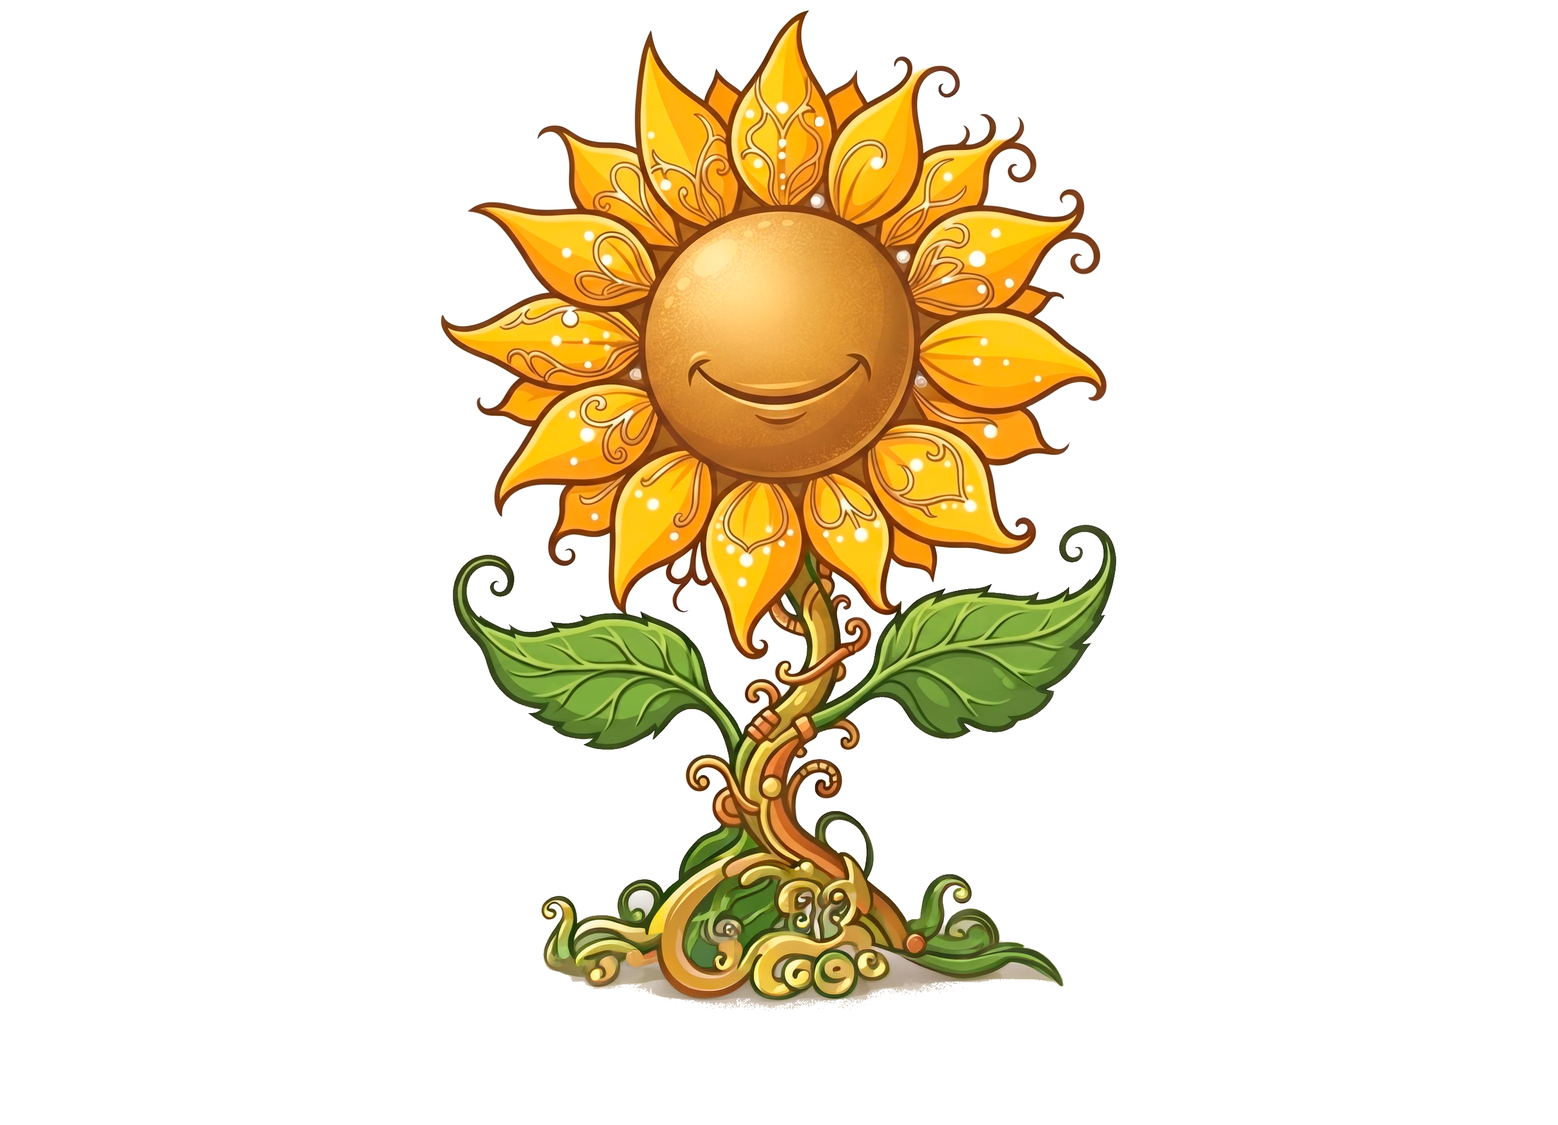
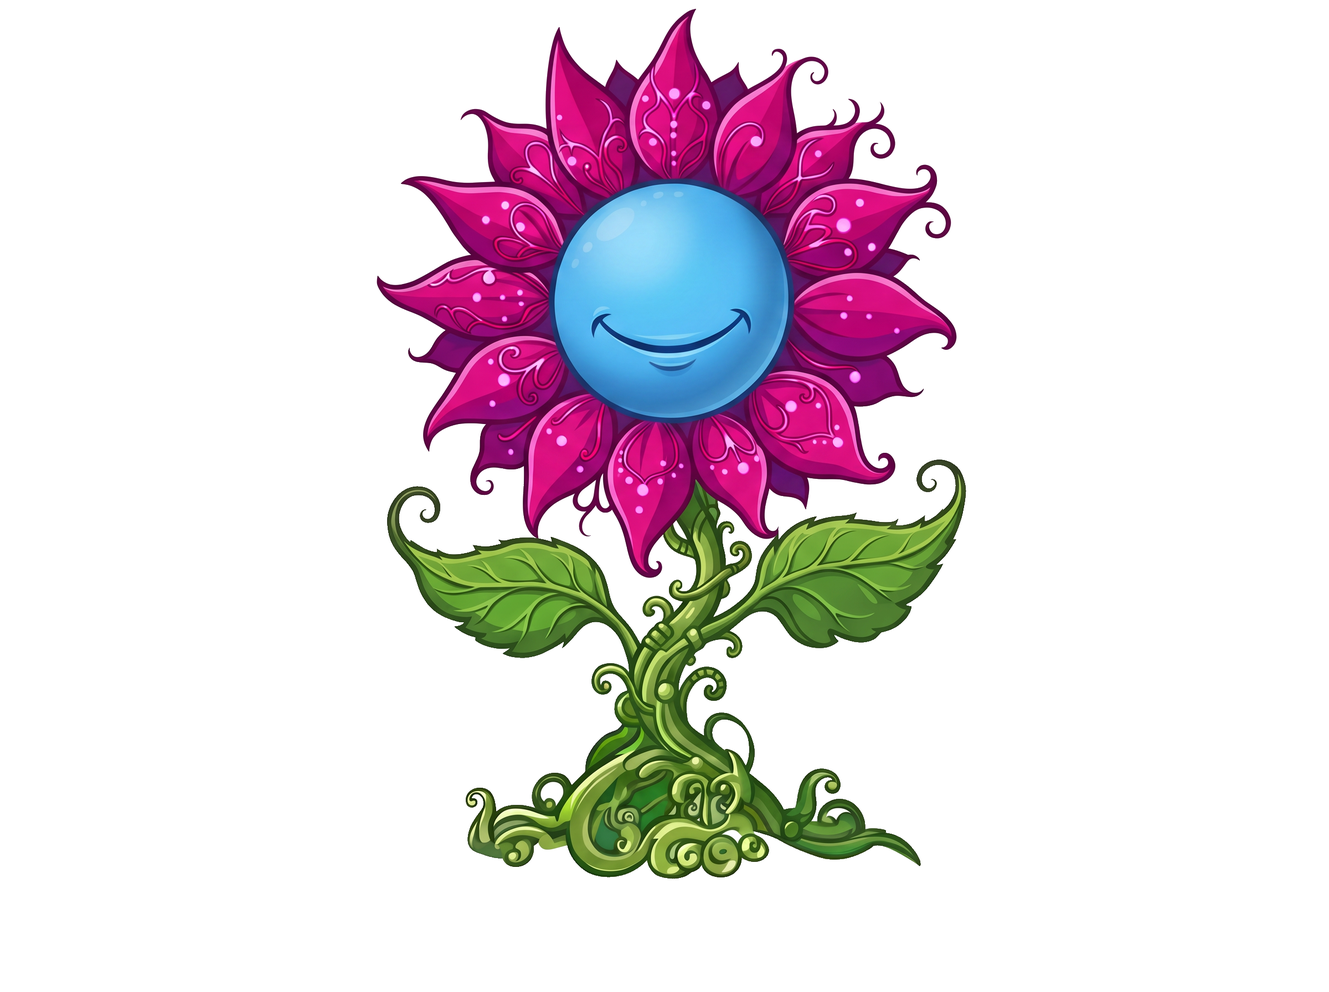
Rialla rosa i blava, mes petita; icona; l'herba desapareix del terra en collir-la; textos del Pi

Changed region(s): [[0.2812, 0.0, 0.75, 0.9062]]

diff --git a/js/dialegs.js b/js/dialegs.js
@@ -12,7 +12,7 @@ const SIGNES_MISSATGE = ["☉", "☽", "✦", "♆", "⚶", "☿", "♄", "♃",
 // (a les partides velles, la farigola que s'hi portava abans compta com la pruna)
 function ofrenesFont(E) { return ['herba1', 'herba2'].filter(h => E.flag(h)).length + (E.te('pruna') || E.flag('herba3') ? 1 : 0); }
 function objectiuFont(n) {
-    return n === 3 ? 'Ja ho tens tot: torna a la Font del Bisbe.' : `Porta a la Font del Bisbe l'herba de Sant Joan (al bosc), la rialla (una planta: al Bosc del Pi dels Tres Cants, al sud de Sant Antoni, guardada per bolets verinosos) i una pruna de la Prunera de l'Hostatgeria (${n}/3).`;
+    return n === 3 ? 'Ja ho tens tot: torna a la Font del Bisbe.' : `Porta a la Font del Bisbe l'herba de Sant Joan (al bosc), la rialla (una planta: al Bosc del Pi dels Tres Cants, guardada per bolets verinosos) i una pruna de la Prunera de l'Hostatgeria (${n}/3).`;
 }
 
 // Pistes: totes surten de la taula de passos de js/progres.js
@@ -773,8 +773,8 @@ const DIALEGS = {
         return {
             pagines: [
                 { qui: 'Ineu', text: 'Les Venerables Sàvies diuen que la nit de Sant Joan aquesta aigua guaria. Ara està morta... Hi ha unes lletres gravades a la pica: «Herba de Sant Joan, rialla i el fruit de l\'arbre d\'or.»' },
-                { qui: 'Ineu', text: 'Rialla... Això no és cap rialla de riure: és una PLANTA! Les Venerables Sàvies en parlaven: «l\'herba del riure», una flor groga, de pètals tot al voltant, amb una boca somrient al mig, com si es rigués. Només creix on la boira no l\'ha pogut marcir, i diuen que al Bosc del Pi dels Tres Cants, al sud de Sant Antoni, en una clariana a la vora del camí... però que no la deixen collir fàcilment: la guarden uns bolets verinosos.' },
-                { qui: 'Ineu', text: 'L\'herba de Sant Joan fa llum, sempre en una clariana: la trobaré aquí al bosc, al nord (cap al Til·ler). I l\'arbre d\'or... és la Prunera Màgica, al jardí de l\'Hostatgeria! Una pruna.' },
+                { qui: 'Ineu', text: 'Rialla... Això no és cap rialla de riure: és una PLANTA! Les Venerables Sàvies parlaven d\'una flor que creix envoltada de bolets verinosos, al Bosc del Pi dels Tres Cants.' },
+                { qui: 'Ineu', text: 'L\'herba de Sant Joan fa llum, sempre en una clariana: en deu haver-n\'hi per aquí, en aquest mateix bosc. I l\'arbre d\'or... és la Prunera Màgica, al jardí de l\'Hostatgeria! Una pruna.' },
                 { avis: `Ofrenes trobades: ${herbes}/3.` }
             ],
             enAcabar: () => { E.posaFlag('fontVista'); E.posaObjectiu(objectiuFont(herbes)); }
@@ -782,7 +782,10 @@ const DIALEGS = {
     },
 
     herba: (n, nom, icona) => E => ({
-        pagines: [{ avis: `Has trobat ${nom}!`, obj: icona }],               // l'Ineu alça l'ofrena amb la fanfarra i la imatge de l'objecte
+        pagines: [
+            { fer: (z, fet) => { if (z.herbaAgafada) z.herbaAgafada(n); fet(); } },        // el dibuix de l'herba desapareix del terra: la icona que s'alça en passa a ser l'única
+            { avis: `Has trobat ${nom}!`, obj: icona }
+        ],               // l'Ineu alça l'ofrena amb la fanfarra i la imatge de l'objecte
         enAcabar: () => {
             E.posaFlag('herba' + n);
             if (E.flag('fontVista')) E.posaObjectiu(objectiuFont(ofrenesFont(E)));

diff --git a/index.html b/index.html
@@ -63,9 +63,9 @@
     <!-- L'ordre importa: cada fitxer fa servir coses dels anteriors -->
     <script src="js/sfx.js?v=2611110744"></script>
     <script src="js/partida.js?v=2611110744"></script>
-    <script src="js/progres.js?v=2611114300"></script>
-    <script src="js/dibuixos.js?v=2611114400"></script>
-    <script src="js/icones.js?v=2611114600"></script>
+    <script src="js/progres.js?v=2611114900"></script>
+    <script src="js/dibuixos.js?v=2611115000"></script>
+    <script src="js/icones.js?v=2611115000"></script>
     <script src="js/dibuixos_biblio.js?v=2611110744"></script>
     <script src="js/dibuixos_cela.js?v=2611110744"></script>
     <script src="js/dibuixos_taller.js?v=2611110744"></script>
@@ -75,8 +75,8 @@
     <script src="js/dibuixos_casa.js?v=2611110744"></script>
     <script src="js/dibuixos_proleg.js?v=2611110744"></script>
     <script src="js/dibuixos_pingpong.js?v=2611110744"></script>
-    <script src="js/assets.js?v=2611114500"></script>
-    <script src="js/dialegs.js?v=2611114400"></script>
+    <script src="js/assets.js?v=2611115100"></script>
+    <script src="js/dialegs.js?v=2611115200"></script>
     <script src="js/ui.js?v=2611114100"></script>
     <script src="js/zona_base.js?v=2611114300"></script>
     <script src="js/atac_arma.js?v=2611110744"></script>
@@ -84,13 +84,13 @@
     <script src="js/musica.js?v=2611114000"></script>
     <script src="js/zones/placa.js?v=2611113900"></script>
     <script src="js/zones/provisionals.js?v=2611110744"></script>
-    <script src="js/zones/nord.js?v=2611114200"></script>
+    <script src="js/zones/nord.js?v=2611115200"></script>
     <script src="js/zones/cirosa.js?v=2611110744"></script>
     <script src="js/estels.js?v=2611110744"></script>
     <script src="js/pingpong.js?v=2611110744"></script>
     <script src="js/credits.js?v=2611110744"></script>
     <script src="js/zones/oest.js?v=2611110744"></script>
-    <script src="js/zones/bosc_pi.js?v=2611114300"></script>
+    <script src="js/zones/bosc_pi.js?v=2611115200"></script>
     <script src="js/zones/cementiri.js?v=2611110744"></script>
     <script src="js/zones/casa.js?v=2611110744"></script>
     <script src="js/zones/cabana.js?v=2611110744"></script>

diff --git a/js/dibuixos.js b/js/dibuixos.js
@@ -551,12 +551,12 @@ function dibuixarHerba(c, w, tipus) {
             ctx.fillStyle = '#6fa84a'; ctx.strokeStyle = '#26361e'; ctx.lineWidth = 1.4;
             [[-1, 0.8], [1, 0.68]].forEach(([sg, yy]) => { ctx.beginPath(); ctx.ellipse(fx + sg * 11, H * yy, 11, 4, sg * -0.5, 0, Math.PI * 2); ctx.fill(); ctx.stroke(); });
             // pètals tot al voltant
-            ctx.fillStyle = '#ffd21f'; ctx.strokeStyle = '#8a5a08'; ctx.lineWidth = 1.6;
+            ctx.fillStyle = '#d8307e'; ctx.strokeStyle = '#7a1448'; ctx.lineWidth = 1.6;
             for (let k = 0; k < 10; k++) {
                 const a = k / 10 * Math.PI * 2;
                 ctx.beginPath(); ctx.ellipse(fx + Math.cos(a) * W * 0.25, fy + Math.sin(a) * W * 0.25, W * 0.12, W * 0.065, a, 0, Math.PI * 2); ctx.fill(); ctx.stroke();
             }
-            ctx.fillStyle = '#ffe36a'; ctx.strokeStyle = '#8a5a08'; ctx.lineWidth = 1.8;
+            ctx.fillStyle = '#58b0ec'; ctx.strokeStyle = '#1f4f80'; ctx.lineWidth = 1.8;
             ctx.beginPath(); ctx.arc(fx, fy, W * 0.19, 0, Math.PI * 2); ctx.fill(); ctx.stroke();
             // la boca: mitja lluna oberta i somrient, amb una mica de llengua
             ctx.fillStyle = '#6a1c14'; ctx.strokeStyle = '#3a0e08'; ctx.lineWidth = 1.6;

diff --git a/js/icones.js b/js/icones.js
@@ -236,9 +236,9 @@ const ICONES_OBJECTES = {
         ctx.beginPath(); ctx.moveTo(48, 90); ctx.quadraticCurveTo(50, 70, 48, 56); ctx.stroke();
         ctx.strokeStyle = CONTORN; ctx.fillStyle = '#5aa83a';
         [[36, 76, -0.7], [60, 72, 0.7]].forEach(([x, y, an]) => { ctx.beginPath(); ctx.ellipse(x, y, 10, 4.5, an, 0, Math.PI * 2); ctx.fill(); ctx.stroke(); });
-        ctx.fillStyle = '#ffd21f'; ctx.lineWidth = 2.5;
+        ctx.fillStyle = '#d8307e'; ctx.lineWidth = 2.5;
         for (let k = 0; k < 10; k++) { const a = k / 10 * Math.PI * 2; ctx.beginPath(); ctx.ellipse(48 + Math.cos(a) * 25, 38 + Math.sin(a) * 25, 12, 7, a, 0, Math.PI * 2); ctx.fill(); ctx.stroke(); }
-        ctx.fillStyle = '#ffe36a'; ctx.lineWidth = 3; ctx.beginPath(); ctx.arc(48, 38, 19, 0, Math.PI * 2); ctx.fill(); ctx.stroke();
+        ctx.fillStyle = '#58b0ec'; ctx.lineWidth = 3; ctx.beginPath(); ctx.arc(48, 38, 19, 0, Math.PI * 2); ctx.fill(); ctx.stroke();
         ctx.fillStyle = '#6a1c14'; ctx.lineWidth = 2.5; ctx.beginPath(); ctx.moveTo(35, 36); ctx.quadraticCurveTo(48, 62, 61, 36); ctx.closePath(); ctx.fill(); ctx.stroke();
         ctx.fillStyle = '#e8606a'; ctx.beginPath(); ctx.ellipse(48, 47, 6, 3.4, 0, 0, Math.PI * 2); ctx.fill();
     },

diff --git a/js/zones/bosc_pi.js b/js/zones/bosc_pi.js
@@ -279,6 +279,14 @@ class ZonaBoscPi extends ZonaBase {
     // Lliure = els guardians derrotats (o no n'hi ha)
     riallaLliure() { return !this.guardians || this.guardians.every(e => e.mort); }
 
+    // L'Ineu acaba de collir la rialla: el seu dibuix desapareix del terra a l'instant (la icona que s'alça en passa a ser l'única)
+    herbaAgafada(n) {
+        const r = this.rialla;
+        if (n !== 2 || !r) return;
+        r.agafada = true;
+        r.img.setVisible(false); r.halo.setVisible(false); r.raig.setVisible(false); r.espurnes.stop();
+    }
+
     actualitzar() {
         const r = this.rialla;
         if (!r) return;
@@ -287,7 +295,7 @@ class ZonaBoscPi extends ZonaBase {
             this.llum(PI3.rialla.x, PI3.rialla.y - 40, 0xfff0a0);
             Sfx.objecte();
         }
-        const visible = !Estat.flag('herba2');
+        const visible = !Estat.flag('herba2') && !r.agafada;
         r.img.setVisible(visible); r.halo.setVisible(visible); r.raig.setVisible(visible);
         if (visible && !r.encesa) { r.encesa = true; r.espurnes.start(); }
         else if (!visible && r.encesa) { r.encesa = false; r.espurnes.stop(); }

diff --git a/js/assets.js b/js/assets.js
@@ -173,7 +173,7 @@ const CATALEG = [
     { key: 'herba_sj',     file: null,     amplada: 70, provisional: (c, w) => dibuixarHerba(c, w, 'sj') },
     { key: 'romani',       file: null,       amplada: 70, provisional: (c, w) => dibuixarHerba(c, w, 'romani') },
     { key: 'farigola',     file: null,     amplada: 70, provisional: (c, w) => dibuixarHerba(c, w, 'farigola') },
-    { key: 'rialla',       file: 'assets/natura/rialla.webp',       amplada: 90, provisional: (c, w) => dibuixarHerba(c, w, 'rialla') },       // l'herba del riure (Bosc del Pi dels Tres Cants)
+    { key: 'rialla',       file: 'assets/natura/rialla.webp',       amplada: 44, provisional: (c, w) => dibuixarHerba(c, w, 'rialla') },       // l'herba del riure (Bosc del Pi dels Tres Cants)
     { key: 'cercle_bolets',  file: 'assets/natura/cercle_bolets.webp',  amplada: 150, provisional: (c, w) => dibuixarCercleBolets(c, w) },
     { key: 'olla',           file: null,           amplada: 110, provisional: (c, w) => dibuixarOlla(c, w) },
     { key: 'ocell',          file: null,          amplada: 34, provisional: (c, w) => dibuixarOcell(c, w) },

diff --git a/js/zones/nord.js b/js/zones/nord.js
@@ -1434,9 +1434,17 @@ class ZonaBosc extends ZonaBase {
         this.add.rectangle(AMPLE / 2, (ALT - ALT_HUD) / 2, AMPLE / ZOOM_CAMERA + 4, (ALT - ALT_HUD) / ZOOM_CAMERA + 4, 0x102810, 0.18).setScrollFactor(0).setDepth(90000);
     }
 
+    // L'Ineu acaba de collir l'herba n: el seu dibuix desapareix del terra a l'instant (la icona que s'alça en passa a ser l'única)
+    herbaAgafada(n) {
+        const h = this.herbes.find(q => q.flag === 'herba' + n);
+        if (!h) return;
+        h.agafada = true;
+        h.img.setVisible(false); h.halo.setVisible(false); h.raig.setVisible(false); h.espurnes.stop();
+    }
+
     actualitzar(ara) {
         this.herbes.forEach(h => {
-            const visible = !Estat.flag(h.flag) && Estat.flag('fontVista');
+            const visible = !Estat.flag(h.flag) && Estat.flag('fontVista') && !h.agafada;
             h.img.setVisible(visible); h.halo.setVisible(visible); h.raig.setVisible(visible);
             if (visible && !h.encesa) { h.encesa = true; h.espurnes.start(); }
             if (!visible && h.encesa && !h.apagada) { h.apagada = true; h.espurnes.stop(); }

diff --git a/js/progres.js b/js/progres.js
@@ -26,7 +26,7 @@ const PROGRES = {
               if (!E.flag('fontVista')) return "La Font del Bisbe, que diuen que guaria tothom, s'ha quedat adormida. Val la pena anar-hi a mirar.";
               const n = ['herba1', 'herba2'].filter(h => E.flag(h)).length + (E.te('pruna') || E.flag('herba3') ? 1 : 0);
               return n === 3 ? "Ja tens totes les ofrenes: torna a la Font del Bisbe."
-                  : "A la Font del Bisbe, les ofrenes que falten (" + n + "/3): l'herba de Sant Joan (al bosc, al nord), la rialla (una planta: al Bosc del Pi dels Tres Cants, al sud de Sant Antoni, guardada per bolets verinosos) i una pruna de la Prunera de l'Hostatgeria.";
+                  : "A la Font del Bisbe, les ofrenes que falten (" + n + "/3): l'herba de Sant Joan (en aquest mateix bosc), la rialla (una planta: al Bosc del Pi dels Tres Cants, guardada per bolets verinosos) i una pruna de la Prunera de l'Hostatgeria.";
           } },
         { id: 'joaneta', marca: ['joanetaVista', 'obj:beuratge'], fet: E => E.flag('joanetaVista') || E.flag('parlatTiler'),
           pista: E => !E.flag('portalJoaneta')

diff --git a/sw.js b/sw.js
@@ -9,7 +9,7 @@
  * No hi ha cap llista de fitxers: es guarda el que el joc va demanant mentre es juga (uns 50 MB com a molt).
  * Per esborrar el que ha guardat: puja el número de VERSIO (es buida la memòria de les versions anteriors).
  */
-const VERSIO = 'runna-24';
+const VERSIO = 'runna-30';
 
 self.addEventListener('install', () => self.skipWaiting());
 

diff --git a/docs/GUIO.md b/docs/GUIO.md
@@ -96,7 +96,7 @@ Vertical: 720 d'ample fix i alçada que s'adapta a la proporció de la pantalla 
 - **La Caseta** (escena petita, a l'oest del Til·ler): en Georgi al jardí; la seva **casa** (es pot entrar: llar de foc, cuina, tauler d'eines amb el buit de la maneta, llit i un gat; no hi ha ningú) i la **caseta**, una cabana de fusta aixecada sobre pilars amb terrassa i escala (com una cabana d'arbre, sense arbre). Dins la caseta, el cofre de les joguines amb la **maneta** (el tresor).
 - **Pins:** el **pi roig** domina la Rovellonera i els boscos del nord-est; el **pi pinyer** els camins de l'oest (Ermita, Era, Desaparició).
 - **Camí i La Cirosa**: camí llarg en zig-zag amb tres cartells i un **banc de pedra** (hi reposes i es desa la partida); ovelles de boira fins que cau el Pastor, i després ovelles blanques. A dalt, la masia, un pou, bales de palla, la pastura i els pastors vora el foc. **El Mas de la Cirosa** (interior): llar (repòs i desat), taula, jaços, biga amb ganxos buits (les esquelles) i el **Llibre del Ramat**, que explica la història de la gàbia des del punt de vista dels pastors.
-- **Bosc de Sant Joan**: Font del Bisbe, Alzina Buida (portal; doble de gran que la resta d'arbres, amb clariana pròpia i claror verda), Tot el bosc és ple de **boira lila** mentre la font és adormida; en tirar-hi les tres ofrenes (l'**herba de Sant Joan**, que brilla en una clariana d'aquest bosc; la **rialla**, l'«herba del riure» (una **planta**: una sola flor groga, de pètals tot al voltant i amb una boca somrient al mig, sense ulls; la pica no l'explica: ho fa l'Ineu, que en recorda el nom de les Venerables Sàvies), que només existeix un cop llegida la font i que brilla en una clariana de la vora del camí del **Bosc del Pi dels Tres Cants** (al sud de Sant Antoni), **envoltada de tres bolets verinosos** (immòbils, però tiren el seu verí a on és l'Ineu: cal derrotar-los de a prop per arribar-hi; abans de la font ni la rialla ni els bolets hi són); i una **pruna** de la Prunera de l'Hostatgeria) la boira se'n va. **Cabana de la Joaneta**: hi dona el beuratge per al camí del Til·ler.
+- **Bosc de Sant Joan**: Font del Bisbe, Alzina Buida (portal; doble de gran que la resta d'arbres, amb clariana pròpia i claror verda), Tot el bosc és ple de **boira lila** mentre la font és adormida; en tirar-hi les tres ofrenes (l'**herba de Sant Joan**, que brilla en una clariana d'aquest bosc; la **rialla**, l'«herba del riure» (una **planta**: una sola flor de pètals fúcsia tot al voltant i el centre blau amb una boca somrient, sense ulls; la pica no l'explica: ho fa l'Ineu, que en recorda el nom de les Venerables Sàvies), que només existeix un cop llegida la font i que brilla en una clariana de la vora del camí del **Bosc del Pi dels Tres Cants** (al sud de Sant Antoni), **envoltada de tres bolets verinosos** (immòbils, però tiren el seu verí a on és l'Ineu: cal derrotar-los de a prop per arribar-hi; abans de la font ni la rialla ni els bolets hi són); i una **pruna** de la Prunera de l'Hostatgeria) la boira se'n va. **Cabana de la Joaneta**: hi dona el beuratge per al camí del Til·ler.
 - **Bosc del Pi dels Tres Cants** (`js/zones/bosc_pi.js`, opcional; al sud de Sant Antoni): un bosc molt llarg (2800 px, com el Camí de la Desaparició) amb un camí pel mig i enemics (escolopendres i bolets). S'hi entra pel nord des de Sant Antoni; el camí baixa i gira cap a l'oest fins a una sortida que dona a l'**entrada est del Dolmen** (a la mateixa alçada que la de l'oest). A mig camí hi ha una clariana amb el **Pi dels Tres Cants**, que barra el pas amb les branques baixes. Només s'obre des de l'est (Sant Antoni): davant el pi, la tarota toca els tres cants (**Aurora, Vespres i Miracle**), cadascun fa reviure una branca del pi (la imatge canvia amb un fade, sense llums: el primer cant, la branca esquerra; el segon, també la dreta; el tercer, tot l'arbre) i, amb els tres, les branques s'aixequen. Des del Dolmen el camí s'acaba contra les branques, i l'Ineu entén que cal anar per l'altre costat. No hi ha esbarzers ni cap altre impediment. **Premi:** el pi NO parla (és un símbol, un tresor que torna a viure). Amb el tercer cant la càmera panega fins a la barrera d'arrels, que reviscolen i s'enfonsen a terra, i torna al pi; els ocells hi tornen (i hi queden) i, de dins el tronc, surt la **Carta del Cortiner** (objecte del sarró), que explica d'on van sortir els tres cants (els ocells de l'Ocellaire, les tres branques, el Cortiner que els va posar notes) i convida els qui guarden els ocells robats a tornar-hi. Es compta com a missió lateral al Diari («El Pi dels Tres Cants»), que s'obre en saber el Cant del Miracle.
 - **Camí de la Desaparició**: 12 columnes; al mur d'arbres del nord, un **forat més ample** (sense marca) duu a la **Cabana amagada** (cofre: +1 cor), on el **Iscu** juga al solitari.
 - **Ermita de la Desaparició** (gran, porta alta; Creu de la Desaparició al davant; interior amb dues taules de pedra), **L'Era** (dos roures, bancs entre ells), **L'Hostatgeria** (edifici gran a la dreta; enganxada al lateral esquerre, una pèrgola d'arcades de pedra i columnes sense sostre amb la llosa; la Prunera Màgica, a l'esquerra de tot; l'Isílder, davant l'entrada de la pèrgola).

diff --git a/docs/PROMPTS_GRAFICS.md b/docs/PROMPTS_GRAFICS.md
@@ -310,7 +310,7 @@ Charming 2D cartoon game scenery asset in the same art style as the attached ref
 ```
 
 
-### `rialla.png` → `assets/natura/rialla.webp` (amplada 90; **fet i connectat**) *(La **rialla**, «l'herba del riure»: una **planta** màgica que és la tercera ofrena de la Font del Bisbe (`js/zones/bosc_pi.js`, Bosc del Pi dels Tres Cants, envoltada de tres bolets verinosos). **UNA SOLA FLOR**, gran, groga, vista de cara, amb **molts pètals tot al voltant** (uns 10, ben definits) i, al centre, una **boca evident i somrient**: oberta, en forma de mitja lluna, de color vermell fosc, amb una mica de llengua rosa. **Sense ulls, sense nas, sense celles, sense galtes ni cap altre tret de cara**: només la boca. Sota la flor, **una sola tija verda i prima** amb **dues fulles ovalades**, i la base de la tija a baix de la imatge. Sense llum, sense espurnes, sense halo ni ombra al terra (el joc hi posa un halo i una columna de llum per codi). Imatge **quasi quadrada, uns 1:1,1**, fons blanc pur (#FFFFFF), mateix estil cel-shading i contorn fosc que la resta de la natura del joc; la flor i la boca s'han de llegir bé a 70 px d'ample. **Prompt:** «A single large bright yellow flower seen from the front, with about ten well-defined petals all around it and, in the centre, one clear smiling mouth: open, half-moon shaped, dark red, with a small pink tongue. No eyes, no nose, no eyebrows, no cheeks, no other facial features, only the mouth. A single thin green stem with two oval leaves, stem base at the bottom of the image. No glow, no sparkles, no halo, no ground shadow. Hand-painted cel-shaded 2D game asset, dark brown outline, pure white background (#FFFFFF), same style as the rest of the game's nature props, readable at 70 px wide.» Mentre no hi sigui, el joc fa servir un dibuix provisional fet amb codi.)*
+### `rialla.png` → `assets/natura/rialla.webp` (amplada 44; **fet i connectat**) *(La **rialla**, «l'herba del riure»: una **planta** màgica que és la tercera ofrena de la Font del Bisbe (`js/zones/bosc_pi.js`, Bosc del Pi dels Tres Cants, envoltada de tres bolets verinosos). **UNA SOLA FLOR**, gran, vista de cara, amb **molts pètals fúcsia tot al voltant** (uns 10, ben definits, amb petits detalls ornamentals) i, al centre, un **disc blau** amb una **boca evident i somrient**. (La versió definitiva, feta: pètals fúcsia i centre blau; la primera, groga, es va descartar perquè s'assemblava a l'herba de Sant Joan.) **Sense ulls, sense nas, sense celles, sense galtes ni cap altre tret de cara**: només la boca. Sota la flor, **una sola tija verda i prima** amb **dues fulles ovalades**, i la base de la tija a baix de la imatge. Sense llum, sense espurnes, sense halo ni ombra al terra (el joc hi posa un halo i una columna de llum per codi). Imatge **quasi quadrada, uns 1:1,1**, fons blanc pur (#FFFFFF), mateix estil cel-shading i contorn fosc que la resta de la natura del joc; la flor i la boca s'han de llegir bé a 70 px d'ample. **Prompt:** «A single large bright yellow flower seen from the front, with about ten well-defined petals all around it and, in the centre, one clear smiling mouth: open, half-moon shaped, dark red, with a small pink tongue. No eyes, no nose, no eyebrows, no cheeks, no other facial features, only the mouth. A single thin green stem with two oval leaves, stem base at the bottom of the image. No glow, no sparkles, no halo, no ground shadow. Hand-painted cel-shaded 2D game asset, dark brown outline, pure white background (#FFFFFF), same style as the rest of the game's nature props, readable at 70 px wide.» Mentre no hi sigui, el joc fa servir un dibuix provisional fet amb codi.)*
 
 ### `placa_pi.png` → `assets/natura/placa_pi.webp` (amplada 70) *(La placa del Pi dels Tres Cants: una **fita de pedra petita i baixa** davant el pi, que explica que cal un cant per cada branca. **No ha de semblar una làpida**: sense creu, sense cap arrodonit, sense lletres ni flors. Ha d'estar vista **completament de cara** (alçat frontal, sense cap perspectiva lateral ni cara de dalt visible): una peça plana, com un rectangle de pedra, a la qual es veu només la cara de davant. Mida al joc: uns 70 × 70 (arriba aproximadament a la cintura de l'Ineu). Mentre no hi sigui, el joc fa servir un dibuix provisional fet amb codi.)*
 

diff --git a/docs/GUIO_COMPLET.md b/docs/GUIO_COMPLET.md
@@ -1118,9 +1118,9 @@ L'altra meitat d'aquesta crònica la deixo sota clau, al sagrari de l'església.
 
 **Ineu:** Les Venerables Sàvies diuen que la nit de Sant Joan aquesta aigua guaria. Ara està morta... Hi ha unes lletres gravades a la pica: «Herba de Sant Joan, rialla i el fruit de l'arbre d'or.»
 
-**Ineu:** Rialla... Això no és cap rialla de riure: és una PLANTA! Les Venerables Sàvies en parlaven: «l'herba del riure», una flor groga, de pètals tot al voltant, amb una boca somrient al mig, com si es rigués. Només creix on la boira no l'ha pogut marcir, i diuen que al Bosc del Pi dels Tres Cants, al sud de Sant Antoni, en una clariana a la vora del camí... però que no la deixen collir fàcilment: la guarden uns bolets verinosos.
+**Ineu:** Rialla... Això no és cap rialla de riure: és una PLANTA! Les Venerables Sàvies parlaven d'una flor que creix envoltada de bolets verinosos, al Bosc del Pi dels Tres Cants.
 
-**Ineu:** L'herba de Sant Joan fa llum, sempre en una clariana: la trobaré aquí al bosc, al nord (cap al Til·ler). I l'arbre d'or... és la Prunera Màgica, al jardí de l'Hostatgeria! Una pruna.
+**Ineu:** L'herba de Sant Joan fa llum, sempre en una clariana: en deu haver-n'hi per aquí, en aquest mateix bosc. I l'arbre d'or... és la Prunera Màgica, al jardí de l'Hostatgeria! Una pruna.
 
 
 ### alzinaBuida
